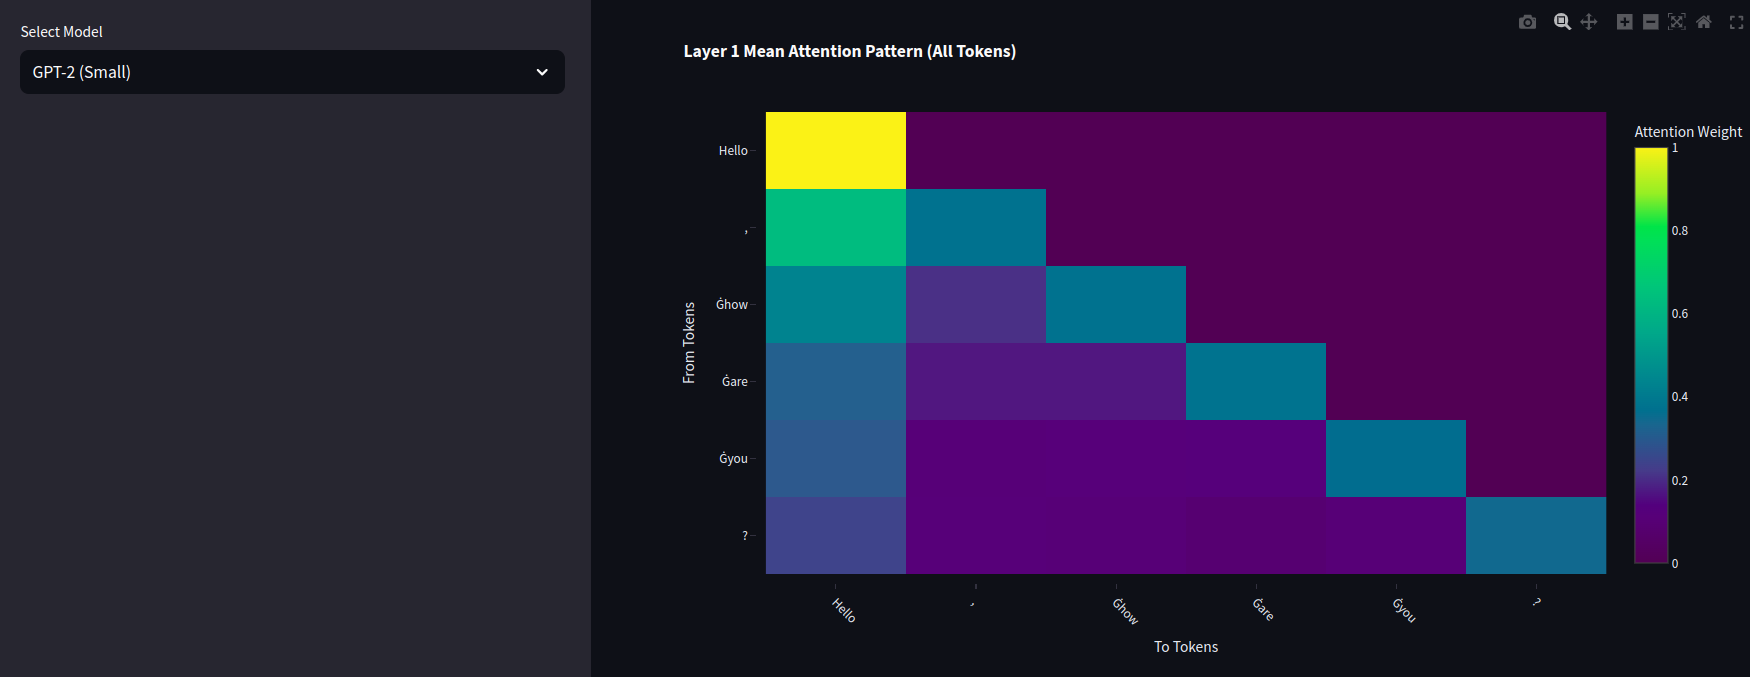
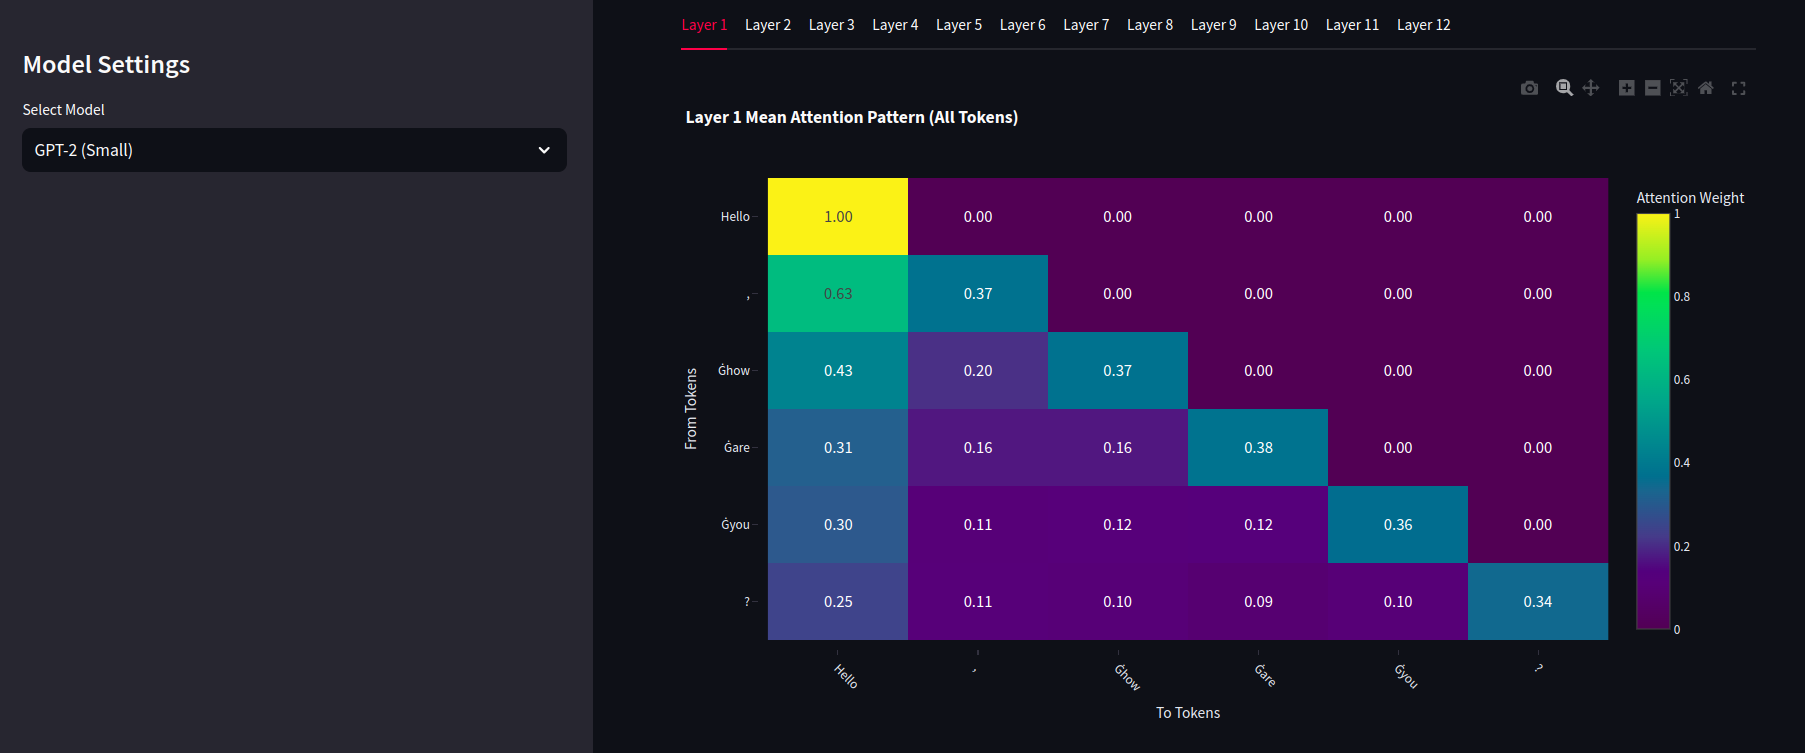
Show attention value on heatmap

diff --git a/attention_visualization.py b/attention_visualization.py
@@ -78,7 +78,11 @@ def plot_attention_matrix(attention_weights, tokens, layer):
         x=tokens,  # to tokens
         y=tokens,  # from tokens
         colorscale='Viridis',
-        colorbar=dict(title='Attention Weight')
+        colorbar=dict(title='Attention Weight'),
+        text=token_attention,
+        texttemplate='%{z:.2f}',  # Format to 2 decimal places
+        textfont={"size": 15},
+        hoverongaps=False,
     ))
     
     fig.update_layout(
@@ -103,7 +107,11 @@ def plot_aggregated_attention(attention_weights, tokens):
         x=tokens,
         y=tokens,
         colorscale='Viridis',
-        colorbar=dict(title='Mean Attention Weight')
+        colorbar=dict(title='Mean Attention Weight'),
+        text=aggregated_attention,
+        texttemplate='%{z:.2f}',  # Format to 2 decimal places
+        textfont={"size": 15},
+        hoverongaps=False,
     ))
     
     fig.update_layout(

diff --git a/README.md b/README.md
@@ -2,12 +2,31 @@
 
 A collection of LLM-based applications for exploration and learning.
 
-## Applications
+## Setup
 
-### 1. Chat Demo
+```bash
+conda env create -f environment.yaml
+conda activate llm_demo
+```
+
+The [streamlit](https://streamlit.io/) is used for user interface.
+
+## Run
+
+To run each demo, you can run:
+
+```bash
+streamlit run chat_demo.py # Take chat demo as example
+```
+
+## Demos
+
+### 1. Chatbot
+
 An interactive chat interface using various LLM models through Together.ai API.
 
 Features:
+
 - [x] Multiple model options (Llama, Gemma, Mistral, Qwen)
 - [x] Adjustable parameters (temperature, top-p, max tokens)
 - [ ] Web search
@@ -17,9 +36,11 @@ Example:
 ![chat-demo-showcase](imgs/chat_demo_example.png)
 
 ### 2. Attention Visualization
+
 A tool to visualize attention patterns in transformer-based language models.
 
 Features:
+
 - [x] Support for multiple transformer-based model variants (currently only tested on gpt-2, but should work fine for other models).
 - [x] Layer-by-layer attention visualization
 - [x] Aggregated attention patterns
@@ -29,12 +50,8 @@ Example:
 
 ![layer-attention-showcase](imgs/layer_attention_visualization_exmaple.png)
 
-## Setup
-
-```bash
-conda env create -f environment.yaml
-```
+### More demos may come......
 
 ## Suggestion
 
-Welcome to any type of suggestion.
+Welcome to any type of constructional suggestion.
